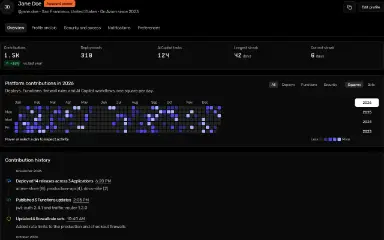
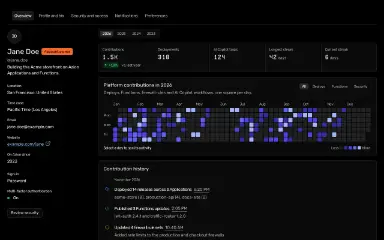
chore(webkit): refresh profile baselines, thumbnails, catalog and demo copy
Visual baselines from mcr.microsoft.com/playwright:v1.62.0-noble for the
profile block and the ContributionGraph default example, the block's docs
thumbnails, catalog and llms, and the demos' copy of the block.

diff --git a/apps/demos/src/blocks/account-user-profile-profile-overview.vue b/apps/demos/src/blocks/account-user-profile-profile-overview.vue
@@ -3,6 +3,7 @@
   import Card from '@aziontech/webkit/card'
   import ContributionGraph from '@aziontech/webkit/contribution-graph'
   import EmptyState from '@aziontech/webkit/empty-state'
+  import Select from '@aziontech/webkit/select'
   import StatTile from '@aziontech/webkit/stat-tile'
   import StatTileGroup from '@aziontech/webkit/stat-tile-group'
   import Tag from '@aziontech/webkit/tag'
@@ -93,11 +94,29 @@
       class="flex"
     >
       <ToggleGroup
+        v-if="years.length <= 5"
         v-model="yearValue"
         :options="yearOptions"
         size="small"
         aria-label="Contribution year"
       />
+      <Select
+        v-else
+        v-model="yearValue"
+        variant="ghost"
+        size="medium"
+      >
+        <Select.Trigger aria-label="Contribution year" />
+        <Select.Content>
+          <Select.Item
+            v-for="option in yearOptions"
+            :key="option.value"
+            :value="option.value"
+          >
+            {{ option.label }}
+          </Select.Item>
+        </Select.Content>
+      </Select>
     </div>
     <div class="max-md:hidden">
       <StatTileGroup aria-label="Platform contribution metrics">

diff --git a/packages/webkit/llms/blocks/account/account-user-profile.md b/packages/webkit/llms/blocks/account/account-user-profile.md
@@ -1,6 +1,6 @@
 # AccountUserProfile (`account/account-user-profile`)
 
-> One page for an Azion user's profile and personal settings, a page body for ConsoleLayout's default slot. A compact header (a 48 px `Avatar`, the name, a role `Tag`, handle, location and join year; no actions, the tabs are where you edit) sits over `PageTabs`, and from a 1192px-wide block (`@5xl`) it becomes a column beside the tab content with the bio under it and, on Overview, a `KeyValueList` summary (location, time zone, email, website, join year, sign-in and multi-factor as a `StatusIndicator`) with a Review security `Button` that opens the Security tab. The settings tabs stop at the form measure, like the settings page; Overview uses the full width. The tabs: Overview, Profile and bio, Security and access, Notifications and Preferences. Overview opens with a year `ToggleGroup` above everything it changes, then five `StatTile`s in a `StatTileGroup` for the selected year (hidden on a phone), a `Card` with a `ContributionGraph` whose days grow to fill the card (a category `ToggleGroup`, a day click that filters the history) and a `Card` with a month-grouped `Timeline` of contributions, or an `EmptyState`. The settings tabs are `SettingsGroup`s over flush `Card`s of `SettingsRow`s: profile fields, `PhoneInput`, `LanguageSelect` and visibility `Switch`es; `PasswordInput` with `PasswordRequirements` and a Change password button that checks each field, multi-factor (a `ConfirmDialog` before it turns off) and personal tokens, locked with an info `Alert` and a warning `Tag` when the organization's SSO and SCIM provider manages them; three scheduled digests and real-time alerts as `Select`s; `ThemeSwitcher` and a Keyboard shortcuts `Switch`. A docked `SaveBar` appears with unsaved profile, notification or preference changes (Discard, Save changes; Command S and its hint only while shortcuts are on). Loading draws `Skeleton`s; a load failure is a danger `Alert` with Retry.
+> One page for an Azion user's profile and personal settings, a page body for ConsoleLayout's default slot. A compact header (a 48 px `Avatar`, the name, a role `Tag`, handle, location and join year; no actions, the tabs are where you edit) sits over `PageTabs`, and from a 1192px-wide block (`@5xl`) it becomes a column beside the tab content with the bio under it and, on Overview, a `KeyValueList` summary (location, time zone, email, website, join year, sign-in and multi-factor as a `StatusIndicator`) with a Review security `Button` that opens the Security tab. The settings tabs stop at the form measure, like the settings page; Overview uses the full width. The tabs: Overview, Profile and bio, Security and access, Notifications and Preferences. Overview opens with a year `ToggleGroup` (a ghost `Select` past five years) above everything it changes, then five `StatTile`s in a `StatTileGroup` for the selected year (hidden on a phone), a `Card` with a `ContributionGraph` whose days grow to fill the card (a category `ToggleGroup`, a day click that filters the history) and a `Card` with a month-grouped `Timeline` of contributions, or an `EmptyState`. The settings tabs are `SettingsGroup`s over flush `Card`s of `SettingsRow`s: profile fields, `PhoneInput`, `LanguageSelect` and visibility `Switch`es; `PasswordInput` with `PasswordRequirements` and a Change password button that checks each field, multi-factor (a `ConfirmDialog` before it turns off) and personal tokens, locked with an info `Alert` and a warning `Tag` when the organization's SSO and SCIM provider manages them; three scheduled digests and real-time alerts as `Select`s; `ThemeSwitcher` and a Keyboard shortcuts `Switch`. A docked `SaveBar` appears with unsaved profile, notification or preference changes (Discard, Save changes; Command S and its hint only while shortcuts are on). Loading draws `Skeleton`s; a load failure is a danger `Alert` with Retry.
 
 - Surface: app
 - Source: `blocks/account/account-user-profile/account-user-profile.vue` in `@aziontech/webkit`
@@ -47,7 +47,7 @@ Five tabs on `v-model:active-tab`: Overview, Profile and bio, Security and acces
 
 ### C. Year filter and metrics — `ToggleGroup`, `StatTileGroup`, `StatTile` (required)
 
-The year `ToggleGroup` opens Overview, above everything it changes: the metrics, the graph and the history. Five tiles for the selected year: Contributions (with the change against last year), Deployments, AI Copilot tasks, Longest streak, Current streak. Below the `md` breakpoint the tiles are hidden: stacked one per row they push the graph off the first screen of a phone.
+The year `ToggleGroup` opens Overview, above everything it changes: the metrics, the graph and the history. With more than five years it becomes a ghost `Select`, since a `ToggleGroup` holds two to five segments. Five tiles for the selected year: Contributions (with the change against last year), Deployments, AI Copilot tasks, Longest streak, Current streak. Below the `md` breakpoint the tiles are hidden: stacked one per row they push the graph off the first screen of a phone.
 
 ### D. Contribution graph — `Card`, `ContributionGraph`, `ToggleGroup` (required)
 
@@ -1306,6 +1306,7 @@ export function filterHistory(
   import Card from '@aziontech/webkit/card'
   import ContributionGraph from '@aziontech/webkit/contribution-graph'
   import EmptyState from '@aziontech/webkit/empty-state'
+  import Select from '@aziontech/webkit/select'
   import StatTile from '@aziontech/webkit/stat-tile'
   import StatTileGroup from '@aziontech/webkit/stat-tile-group'
   import Tag from '@aziontech/webkit/tag'
@@ -1396,11 +1397,29 @@ export function filterHistory(
       class="flex"
     >
       <ToggleGroup
+        v-if="years.length <= 5"
         v-model="yearValue"
         :options="yearOptions"
         size="small"
         aria-label="Contribution year"
       />
+      <Select
+        v-else
+        v-model="yearValue"
+        variant="ghost"
+        size="medium"
+      >
+        <Select.Trigger aria-label="Contribution year" />
+        <Select.Content>
+          <Select.Item
+            v-for="option in yearOptions"
+            :key="option.value"
+            :value="option.value"
+          >
+            {{ option.label }}
+          </Select.Item>
+        </Select.Content>
+      </Select>
     </div>
     <div class="max-md:hidden">
       <StatTileGroup aria-label="Platform contribution metrics">

diff --git a/packages/webkit/llms/foundations/spacing.md b/packages/webkit/llms/foundations/spacing.md
@@ -170,13 +170,6 @@ A tab strip and its panel are one band too: the panel starts one group step belo
 A common miss: a controls row and the table it narrows are **one band**, joined at the group step.
 The section step is the gap _above_ the band, not inside it.
 
-**A filter sits above everything it changes, and changes nothing above it.** The eye reads a filter
-as acting on what follows it, so a control that also changes content above it (a year picker beside a
-chart that also rewrites the metric tiles over the chart) breaks the link between cause and effect. A
-page-wide filter opens the band it filters, over every metric, chart and list it narrows; a filter in
-a card header narrows that card and what sits below it, never a card above. When a part above must
-stay unfiltered, its label says so ("this year", "all categories").
-
 **The group step is the floor.** No two regions of a page — a banner (`Alert`), a card, a framed
 table, a section heading — ever sit closer than `--layout-group-gap`. The usual way to break it is a
 parent section with no `gap` of its own: a page-level `Alert` above the first `SettingsGroup` lands
